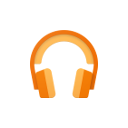
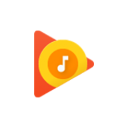
Melhorando tratamento do texto da notificação para Spotify e Youtube; Atualizando icones do Google Play Music e Youtube nas notificações; Corrigindo notificações do Spotify que apareciam fora do player

Changed region(s): [[0.2188, 0.2188, 0.7812, 0.7812]]

diff --git a/extension/assets/js/utils.js b/extension/assets/js/utils.js
@@ -23,7 +23,7 @@ function loadRegex () {
   return {
     Youtube: new RegExp('youtube.com'),
     Deezer: new RegExp('deezer.com'),
-    Spotify: new RegExp('spotify.com'),
+    Spotify: new RegExp('open.spotify.com'),
     GooglePlayMusic: new RegExp('play.google.com')
   }
 }
@@ -47,6 +47,7 @@ var Utils = {
     ]
     if (titleReturn.indexOf(title) !== -1) return
     title = title.replace(/- (YouTube|Spotify|Google Play Music|Google Play Música)/i, '')
+    title = title.replace(/^\([0-9]\)\s/, '')
     return title
   },
   setNotificationMessage: function (url, title) {
@@ -74,7 +75,12 @@ var Utils = {
       iconUrl: 'assets/img/icon_' + message.toLowerCase().replace(/\s/g, '') + '_notification.png',
       isClickable: true
     }
-    var splitTitle = title.split(' - ')
+
+    var splitTitle = title.split(' · ')
+    if (splitTitle.length < 2) {
+      splitTitle = title.split(' - ')
+    }
+
     if (splitTitle.length >= 2) {
       options.title = splitTitle[0]
       options.message = splitTitle[1].split(' [')[0]
@@ -132,6 +138,12 @@ var Utils = {
   isGooglePlayMusic: function (url) {
     var regex = loadRegex()
     if (regex.GooglePlayMusic.test(url)) {
+      return true
+    }
+  },
+  isSpotify: function (url, title) {
+    var regex = loadRegex()
+    if (regex.Spotify.test(url) && title.split(' · ').length >= 2) {
       return true
     }
   }

diff --git a/extension/assets/js/background.js b/extension/assets/js/background.js
@@ -14,7 +14,7 @@ chrome.runtime.onMessage.addListener(function (request, sender, sendResponse) {
 
 chrome.tabs.onUpdated.addListener(function (tabId, changeInfo, tab) {
   if (changeInfo.title) {
-    if (!Utils.isGooglePlayMusic(tab.url)) {
+    if (!Utils.isGooglePlayMusic(tab.url) && !Utils.isSpotify(tab.url, tab.title)) {
       if (
         notification[changeInfo.title] ||
         changeInfo.title.split(' - ').length <= 1 ||

diff --git a/README.md b/README.md
@@ -13,6 +13,11 @@ Baixe na [Chrome Web Store](https://chrome.google.com/webstore/detail/tocando-ag
 
 ### Changelog ###
 
+* 1.6.18
+    * Melhorando tratamento do texto da notificação para Spotify e Youtube
+    * Atualizando icones do Google Play Music e Youtube nas notificações
+    * Corrigindo notificações do Spotify que apareciam fora do player
+
 * 1.6.17
     * Melhorando tratamento do texto da notificação para alguns modelos de título
 
